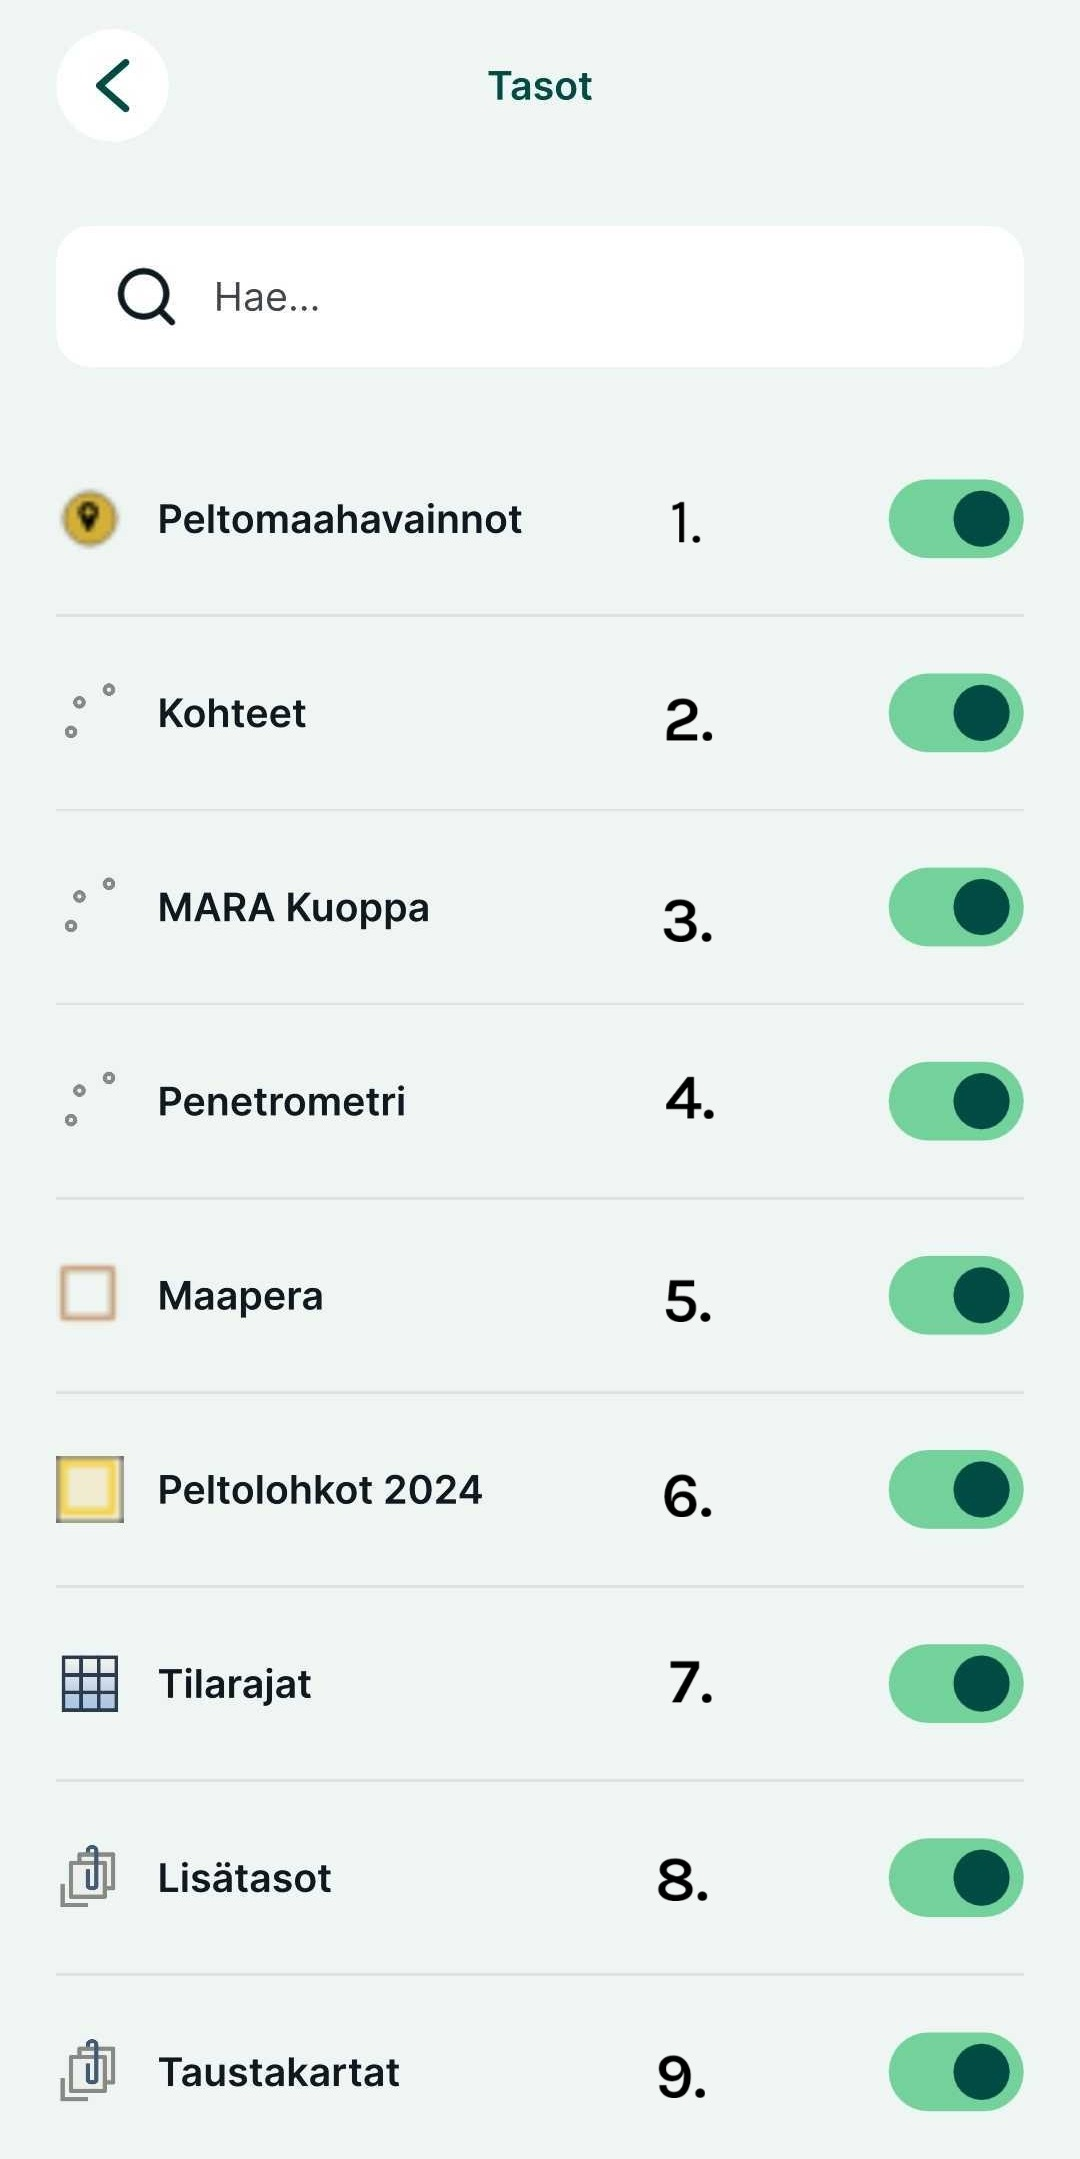
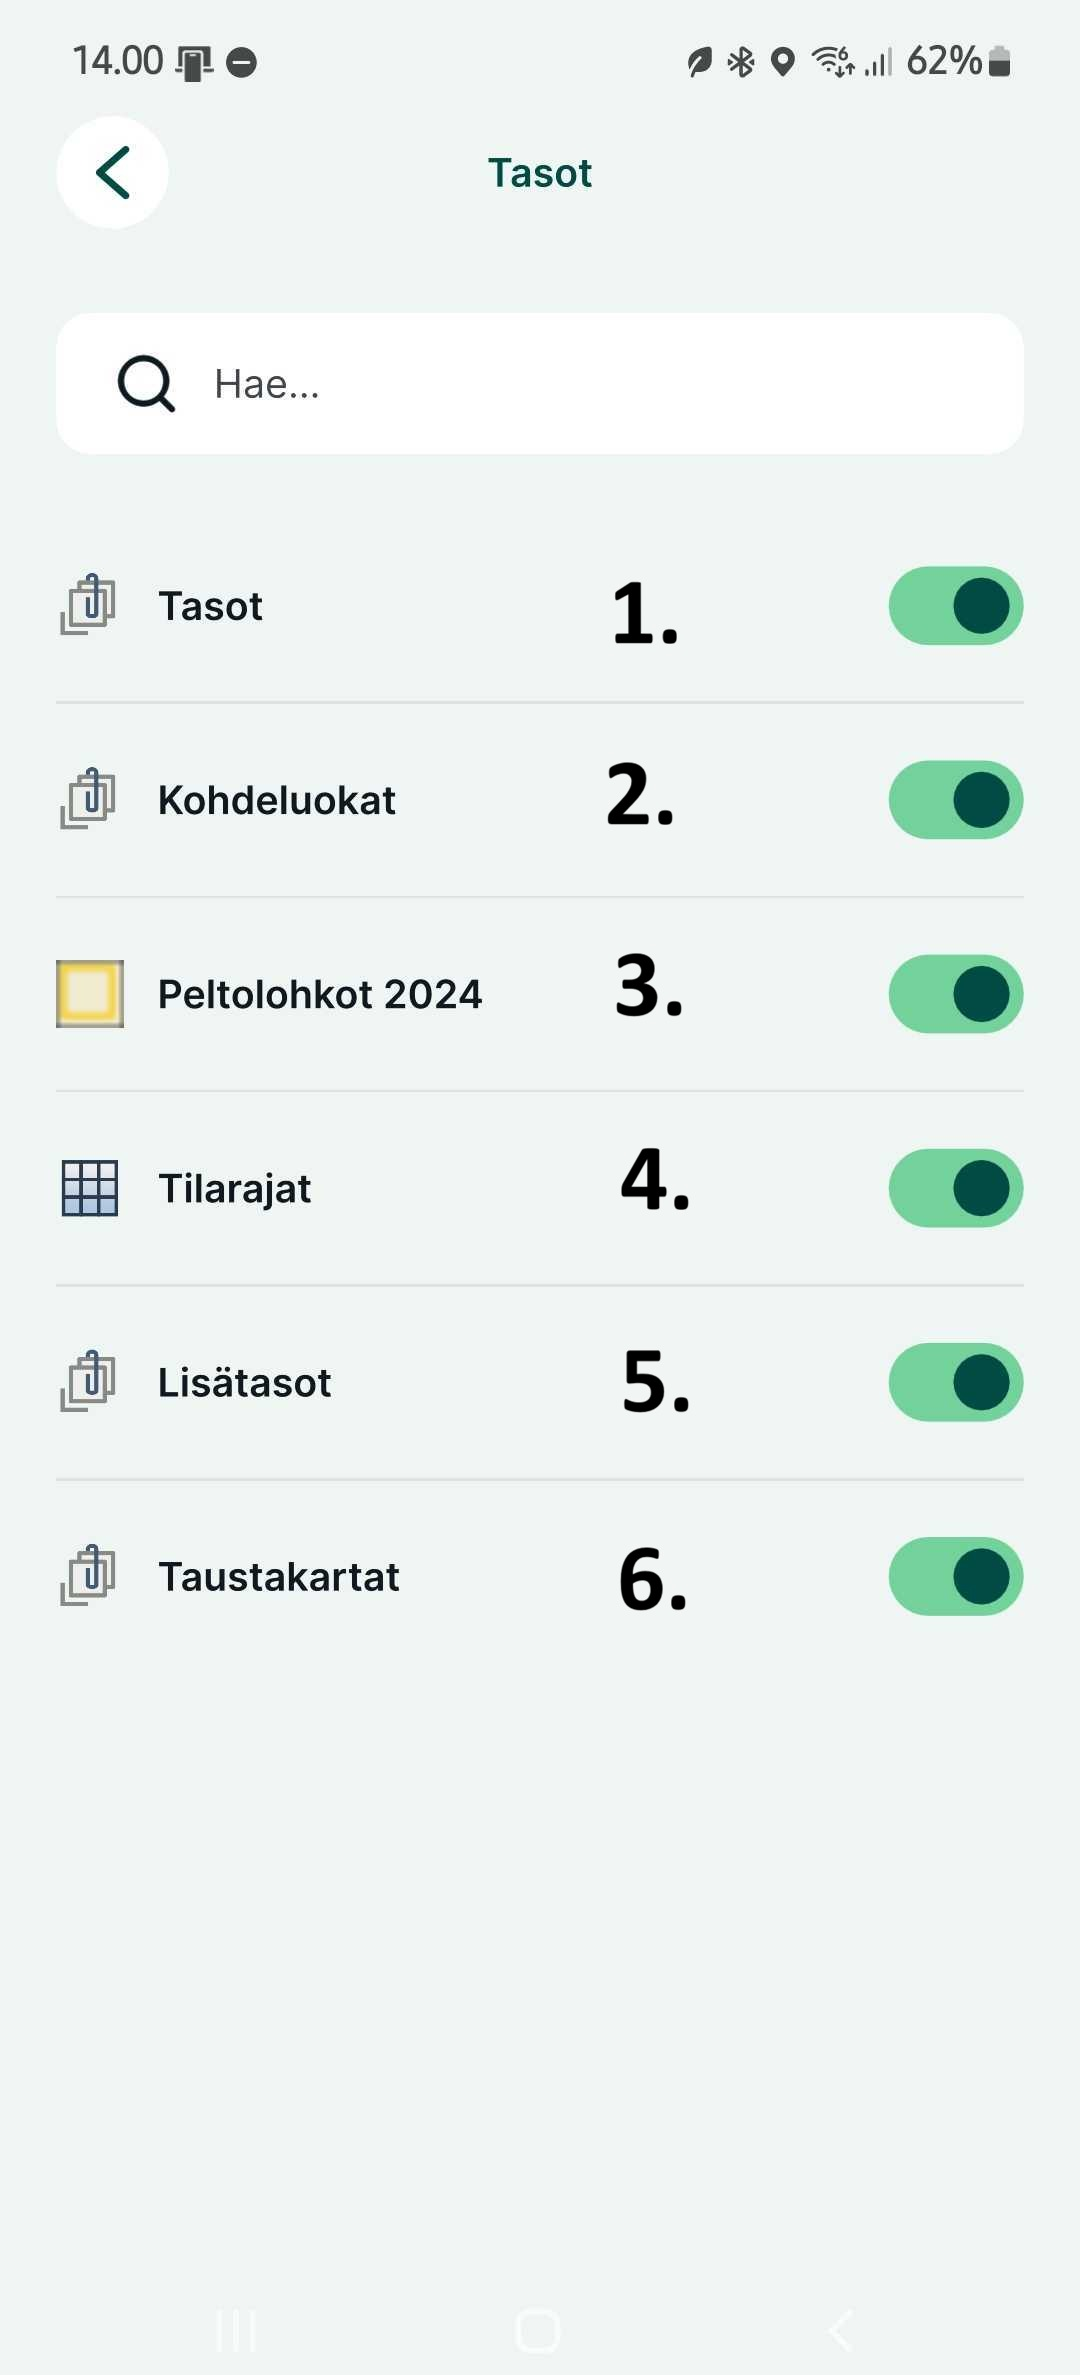
docs: päivtyksiä eri osioihin

diff --git a/docs/karttanäkymä.md b/docs/karttanäkymä.md
@@ -43,15 +43,12 @@ Sovelluksessa on tällä hetkellä käytössä lukuisia erilaisia karttatasoja. 
 </div>
 
 
-1. **Peltomaahavainnot:** Tasolle tallennetaan peltomaahavaonnot. Tasolle lisäämisestä lisää kappaleessa [Peltomaahavainnot](https://gispocoding.github.io/eip-peltomappi/peltomaahavainnot.html)
-2. **Maaperä:** Tasolle tallennetaan kaikki aluemuotoiset kohteet. Tasolle lisäämisestä lisää kappaleessa [Alueen lisääminen ja jakaminen](https://gispocoding.github.io/eip-peltomappi/alueen_lis%C3%A4%C3%A4minen.html)
-3. **Kohteet:** Tasolle tallennetaan pistemuotoiset kohteet, kuten kivet, rummut jne. Tämän tason toiminnoista lisää kappaleessa [Kohteen lisääminen](https://gispocoding.github.io/eip-peltomappi/kohteen_lis%C3%A4%C3%A4minen.html)
-4. **MARA Kuoppa:** Tasolle tallennetaan kaikki MARA-testauksen tulokset. Lisätietoja tästä tasosta kappaleessa [MARA-Kuoppa](https://gispocoding.github.io/eip-peltomappi/mara_kuoppa.html)
-5. **Penetrometri:** Tasolle tallennetaan Penetrometrilla saadut testitulokset. Lisätietoja tasosta kappaleeessa [Penetrometri](https://gispocoding.github.io/eip-peltomappi/penetrometri.html)
-6. **Peltolohkot 2024:** Ruokaviraston Paikkatietoa sisältävä kasvulohko 2024 tason aineisto. Lisätietoja tasosta [täältä](https://www.ruokavirasto.fi/tietoa-meista/julkaistut-tietoaineistot/paikkatietoaineistot/)
-7. **Tilarajat:** Tasolla Maanmittauslaitoksen kiinteistöjaotus. Aineiston toimittaa maanmittauslaitos. Lisätietoja aineistosta [täältä](https://www.maanmittauslaitos.fi/sites/maanmittauslaitos.fi/files/attachments/2020/06/Vektoritiilipalvelun%20esittely.pdf).
-8.   **Lisätasot:** Lisätasoissa on muita projektin kannalta oleellisia tasoja kuten vanhemmat ruokaviraston paikkatietoa sisältävät kasvulohkot (vuosilta 2020-2023) ja reitin piirto taso (tracking_layer). Pääset katsomaan tarkemmin mitä tasoja täällä on napauttamalla tason otsikkoa.
-9. **Taustakartat:** Tasolla taustakarttoina tällä hetkellä [Maanmittauslaitoksen vektoritiilet maastotietokannasta](https://www.maanmittauslaitos.fi/kartat-ja-paikkatieto/aineistot-ja-rajapinnat/karttojen-rajapintapalvelut/karttakuvapalvelu-wms) ja [Kapsi Ortokuva](https://kartat.kapsi.fi/) maanmittauslaitoksen ortokuvasta. Napauttamalla tasoa näet tarkemmin mitä tietoja se sisältää.
+1. **Tasot:** Täältä löytyvät kaikki karttatasot, jotka Peltomapissa kääytössä
+2. **Kohdeluokat:** Täältä löytyy kaikki tasoihin liittyvät kohdeluokat. Lisätietoja kohdeluokkien lisäämisestä [täältä](https://gispocoding.github.io/eip-peltomappi/muut_ominaisuudet.html#kohdeluokkien-lisaaminen)
+3. **Peltolohkot 2024:** Ruokaviraston Paikkatietoa sisältävä kasvulohko 2024 tason aineisto. Lisätietoja tasosta [täältä](https://www.ruokavirasto.fi/tietoa-meista/julkaistut-tietoaineistot/paikkatietoaineistot/)
+4. **Tilarajat:** Tasolla Maanmittauslaitoksen kiinteistöjaotus. Aineiston toimittaa maanmittauslaitos. Lisätietoja aineistosta [täältä](https://www.maanmittauslaitos.fi/sites/maanmittauslaitos.fi/files/attachments/2020/06/Vektoritiilipalvelun%20esittely.pdf).
+5.   **Lisätasot:** Lisätasoissa on muita projektin kannalta oleellisia tasoja kuten vanhemmat ruokaviraston paikkatietoa sisältävät kasvulohkot (vuosilta 2020-2023) ja reitin piirto taso (tracking_layer). Pääset katsomaan tarkemmin mitä tasoja täällä on napauttamalla tason otsikkoa.
+6. **Taustakartat:** Tasolla taustakarttoina tällä hetkellä [Maanmittauslaitoksen vektoritiilet maastotietokannasta](https://www.maanmittauslaitos.fi/kartat-ja-paikkatieto/aineistot-ja-rajapinnat/karttojen-rajapintapalvelut/karttakuvapalvelu-wms) ja [Kapsi Ortokuva](https://kartat.kapsi.fi/) maanmittauslaitoksen ortokuvasta. Napauttamalla tasoa näet tarkemmin mitä tietoja se sisältää.
 
 
 ## **Karttateemat**

diff --git a/docs/tietojen_tallentaminen_peltolohkolle.md b/docs/tietojen_tallentaminen_peltolohkolle.md
@@ -103,21 +103,23 @@ Tarkista ensin että asetukset ovat kunnossa:
 
 Kun asetukset ovat kunnossa, toimi seuraavasti:
 
-1.  Paina alavalikon <img src="img/lisaa_kohde.png" class="responsive-small" />.
+1.  Napauta kartalta peltolohkoa, jolle haluat lisätä alueen
 
-2.  Tarkista, että valittuna tasona on ***Maaperä***.
+2.  Valitse oikean kategorian ja tason mukainen alue, jolle haluat lisätä
 
-3.  Paina karttanäkymän jalanjälkien kuvaa <img src="img/footsteps_mergin_maps.png" class="responsive-small" />
+3.  Napauta + ikonia <img src="img/plus.png" class="responsive-small"/>
 
-4.  Valitse avautuvasta ikkunasta ***Aloita nauhoitus***.
+4.  Paina karttanäkymän jalanjälkien kuvaa <img src="img/footsteps_mergin_maps.png" class="responsive-small" />
 
-5.  Alue muodostuu kulkemasi reitin mukaan.
+5.  Valitse avautuvasta ikkunasta ***Aloita nauhoitus***.
 
-6.  Kun olet liikkunut kohteen ympäri, paina <img src="img/tallennus.png" class="responsive-mid"  /> ja ***Lopeta nauhoitus***. Toiminto sulkee alueen eli jos et ole kulkenut kokonaan kohteen ympäri, sulkeutuu kohde viimeisimmästä pisteestä alkupisteeseen.
+6.  Alue muodostuu kulkemasi reitin mukaan.
 
-7.  Syötä tarvittavat ominaisuustiedot.
+7.  Kun olet liikkunut kohteen ympäri, paina <img src="img/tallennus.png" class="responsive-mid"  /> ja ***Lopeta nauhoitus***. Toiminto sulkee alueen eli jos et ole kulkenut kokonaan kohteen ympäri, sulkeutuu kohde viimeisimmästä pisteestä alkupisteeseen.
 
-8.  Valitse lopuksi oikean yläkulmasta <img src="img/check_mergin_maps.png" class="responsive-small"/> 
+8.  Syötä tarvittavat ominaisuustiedot.
+
+9.  Valitse lopuksi oikean yläkulmasta <img src="img/check_mergin_maps.png" class="responsive-small"/> 
 
 
 <details class="video-box">
